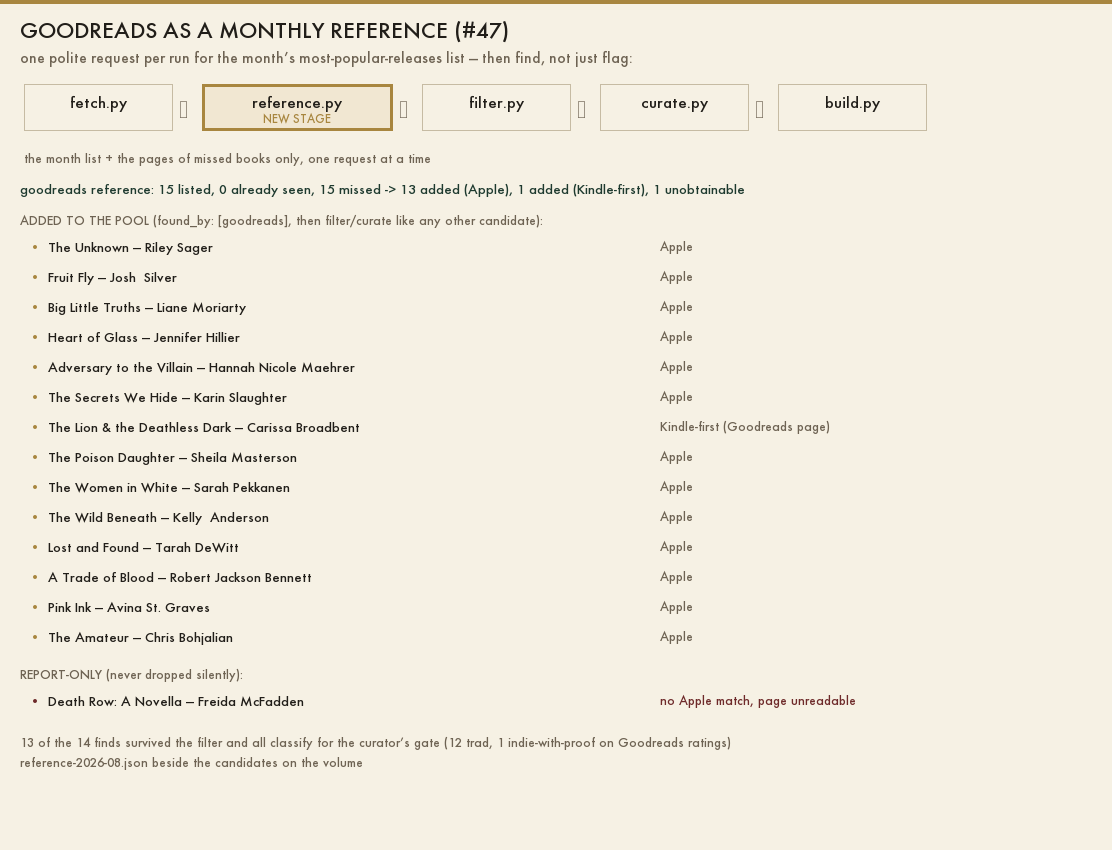
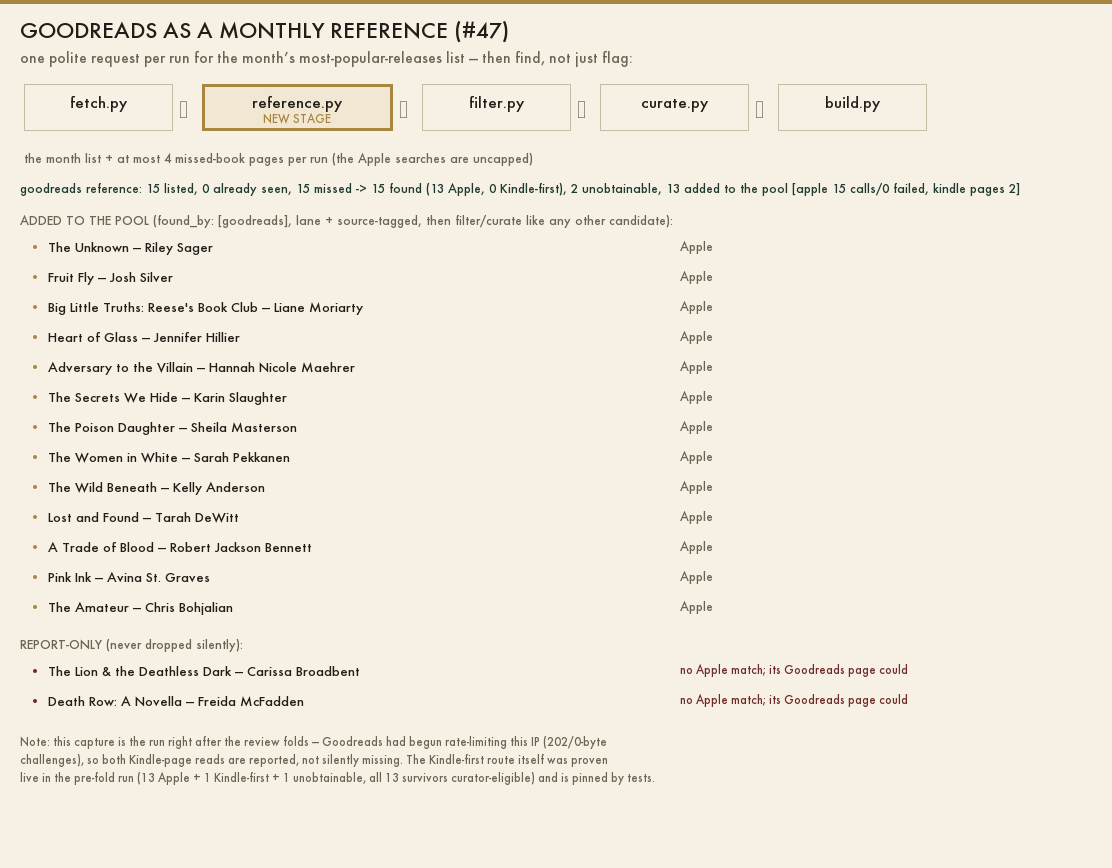
The #47 folds, second pass — the review's politeness + honesty nits
- the expensive reads are capped (4 Goodreads book pages per run, the list is
  one more) while the Apple searches are not: an Apple outage must not become
  a Goodreads crawl, and the cap is stated in the line, never silent
- lane_of takes a BOOK dict, not a genre string — the first fold passed a
  string and the except swallowed it; candidates now carry real lanes (6/6 in
  the live filtered file)
- the unobtainable reason says what it means (no Apple match; its Goodreads
  page could not be sourced)
- tests: 24 in test_reference, 17 in test_filter, all green; the evidence PNG
  refreshed to the post-fold line with the rate-limit note

diff --git a/pipeline/reference.py b/pipeline/reference.py
@@ -44,8 +44,7 @@ UA = ('Mozilla/5.0 (Macintosh; Intel Mac OS X 10_15_7) AppleWebKit/537.36 '
       '(KHTML, like Gecko) Chrome/120.0 Safari/537.36')
 GAP = 1.2          # polite: one request at a time, with a gap
 TIMEOUT = 25
-CAP = 8            # at most this many misses are looked up per run (top of the list)
-
+KINDLE_CAP = 4     # at most this many Goodreads book pages per run (the list is 1 more)
 
 def _get(url, timeout=TIMEOUT):
     """One plain GET, browser-shaped, gzip-safe. Raises on failure — callers
@@ -294,7 +293,7 @@ def apple_candidate(e, mon, cache=None):
             'pub_source': 'apple-search',
         }
         try:
-            lane = lanes.lane_of(cand['genre']) or ''
+            lane = lanes.lane_of(cand) or ''
         except Exception:
             lane = ''
         cand['lane'] = lane
@@ -327,7 +326,7 @@ def kindle_candidate(e, mon):
         return None                      # the page did not answer for this entry
     genres = data.get('genres') or []
     try:
-        lane = lanes.lane_of(' '.join(genres)) or ''
+        lane = lanes.lane_of({'genre': ' '.join(genres)}) or ''
     except Exception:
         lane = ''
     return {
@@ -393,25 +392,31 @@ def main():
     seen = seen_keys()
     misses = [e for e in entries if not (_entry_keys(e) & seen)]
     report['seen'] = len(entries) - len(misses)
-    report['capped'] = len(misses) > CAP
-    if report['capped']:
-        misses = misses[:CAP]
 
     found = []                                   # (entry, candidate, via)
     cache = fetch.load_cache()
+    kindle_pages = 0
     for e in misses:
         try:
             c = apple_candidate(e, mon, cache)
             if c and c.get('date'):
                 found.append((e, c, 'apple'))
                 continue
+            if kindle_pages >= KINDLE_CAP:
+                # the expensive reads are capped; the Apple searches are not —
+                # an Apple outage must not become a Goodreads crawl
+                report['unobtainable'].append({'title': e['title'], 'author': e['author'],
+                                               'url': e['url'],
+                                               'reason': 'kindle page cap reached (%d)' % KINDLE_CAP})
+                continue
+            kindle_pages += 1
             c = kindle_candidate(e, mon)
             if c:
                 found.append((e, c, 'goodreads-page'))
             else:
                 report['unobtainable'].append({'title': e['title'], 'author': e['author'],
                                                'url': e['url'],
-                                               'reason': 'no Apple match, page unreadable'})
+                                               'reason': 'no Apple match; its Goodreads page could not be sourced'})
         except Exception as ex:
             report['unobtainable'].append({'title': e['title'], 'author': e['author'],
                                            'url': e['url'], 'reason': str(ex)[:120]})
@@ -454,13 +459,15 @@ def main():
     n_kindle = len(found) - n_apple
     apple_calls = fetch.STATS['search']['calls'] + fetch.STATS['pages']['calls']
     apple_failed = fetch.STATS['search']['failed'] + fetch.STATS['pages']['failed']
-    cap_note = (' (looked up the top %d by rank)' % CAP) if report['capped'] else ''
+    capped_entries = [u for u in report['unobtainable'] if 'cap reached' in (u.get('reason') or '')]
+    cap_note = ((' (%d not looked up — kindle page cap %d)' % (len(capped_entries), KINDLE_CAP))
+                if capped_entries else '')
     if report['ok']:
         line = ('goodreads reference: %d listed, %d already seen, %d missed -> '
-                '%d found (%d Apple, %d Kindle-first), %d unobtainable, %d added to the pool%s '
-                '[apple %d calls/%d failed]'
+                '%d found (%d Apple, %d Kindle-first), %d unobtainable, %d added to the pool '
+                '[apple %d calls/%d failed, kindle pages %d]%s'
                 % (report['listed'], report['seen'], len(misses), len(found), n_apple, n_kindle,
-                   len(report['unobtainable']), added, cap_note, apple_calls, apple_failed))
+                   len(report['unobtainable']), added, apple_calls, apple_failed, kindle_pages, cap_note))
     else:
         line = ('goodreads reference: %d listed, %d already seen, %d missed -> '
                 '%d found, %d unobtainable — APPEND FAILED (%s): nothing entered the pool%s'

diff --git a/pipeline/test_reference.py b/pipeline/test_reference.py
@@ -154,6 +154,8 @@ class KindleCandidateTests(unittest.TestCase):
         self.assertEqual(c['publisher'], 'Dutton')
         self.assertEqual(c['found_by'], ['goodreads'])
         self.assertEqual(c['pub_source'], 'goodreads-page')
+        self.assertIn(c['lane'], ('sport romance', 'romantasy', 'contemporary romance'))
+        self.assertEqual(c['lane'], 'contemporary romance')   # this fixture's genres
         self.assertTrue(c['date'].startswith('2026-'))
         self.assertTrue(c['rating'] and c['rating_count'])
 
@@ -301,7 +303,35 @@ class AppendHonestyTests(unittest.TestCase):
             self.assertFalse(blob['ok'])
             self.assertIn('append failed', blob['reason'])
             self.assertEqual(blob['added'], [])
-            self.assertTrue(blob['capped'])          # 15 misses -> the top 8 by rank
+        finally:
+            reference.fetch_month, reference._get = orig_month, orig_get
+            fetch.search, fetch.resolve_product = orig_search, orig_resolve
+            if old_out is not None:
+                fetch.CFG['output_dir'] = old_out
+
+    def test_the_kindle_page_cap_is_stated_not_silent(self):
+        import contextlib
+        import io
+        import os
+        import tempfile
+        import fetch
+        tmp = tempfile.mkdtemp(prefix='shelf-ref-cap-')
+        old_out = fetch.CFG.get('output_dir')
+        orig_month, orig_get, orig_search, orig_resolve = (
+            reference.fetch_month, reference._get, fetch.search, fetch.resolve_product)
+        try:
+            fetch.CFG['output_dir'] = tmp
+            reference.fetch_month = lambda mon: open(LIST_FIXTURE, encoding='utf-8').read()
+            reference._get = lambda url, timeout=0: (_ for _ in ()).throw(OSError('503'))
+            fetch.search = lambda term, limit=100: []          # no Apple presence at all
+            fetch.resolve_product = lambda rec, cache: None
+            buf = io.StringIO()
+            with contextlib.redirect_stdout(buf):
+                rc = reference.main()
+            self.assertEqual(rc, 0)
+            out = buf.getvalue()
+            self.assertIn('kindle page cap', out)              # stated, not silent
+            self.assertIn('not looked up', out)
         finally:
             reference.fetch_month, reference._get = orig_month, orig_get
             fetch.search, fetch.resolve_product = orig_search, orig_resolve
